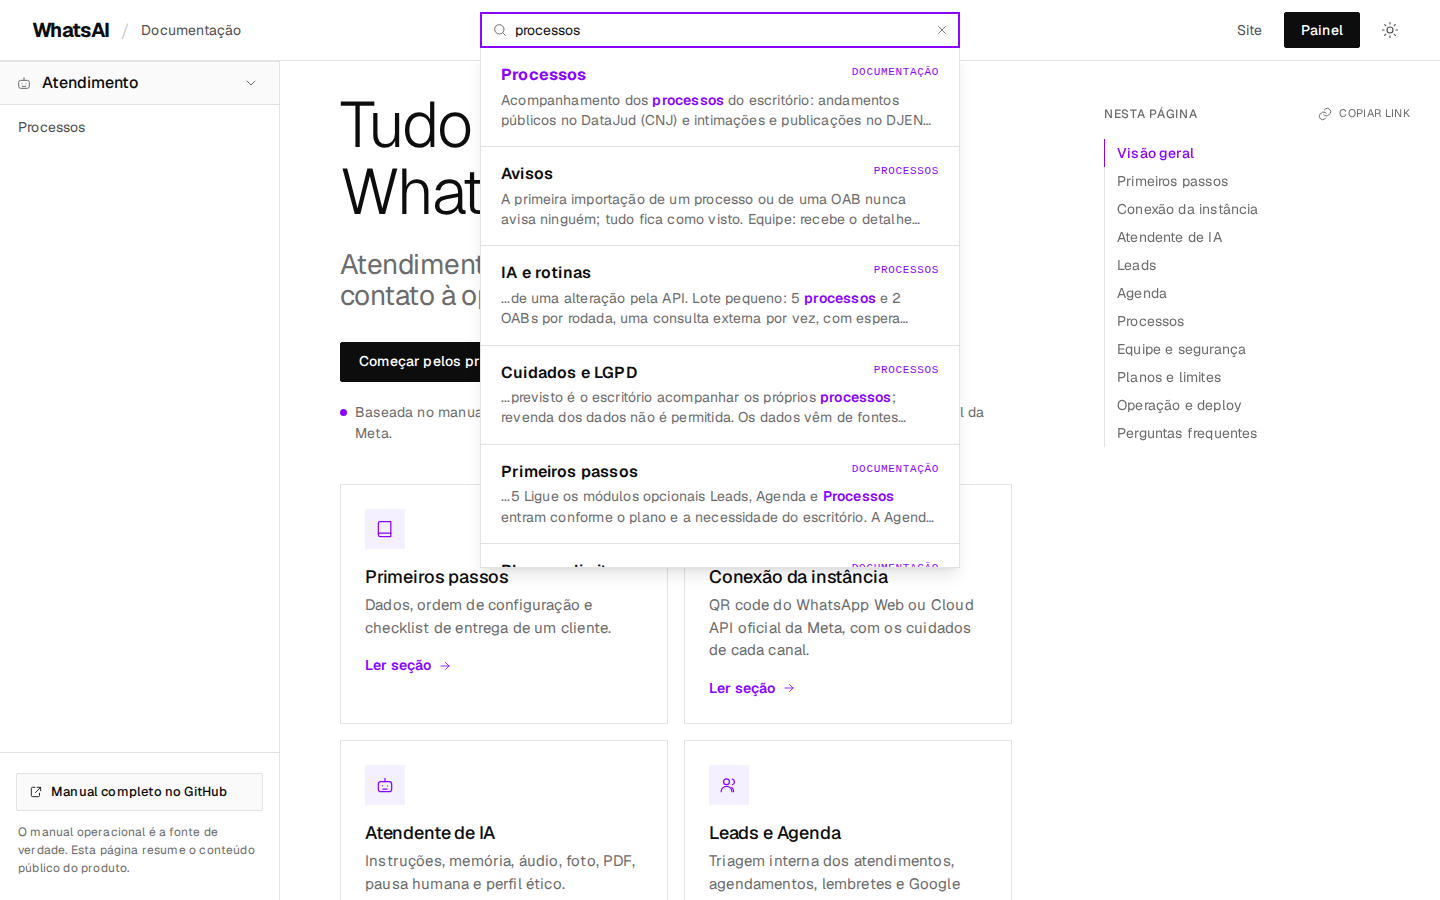
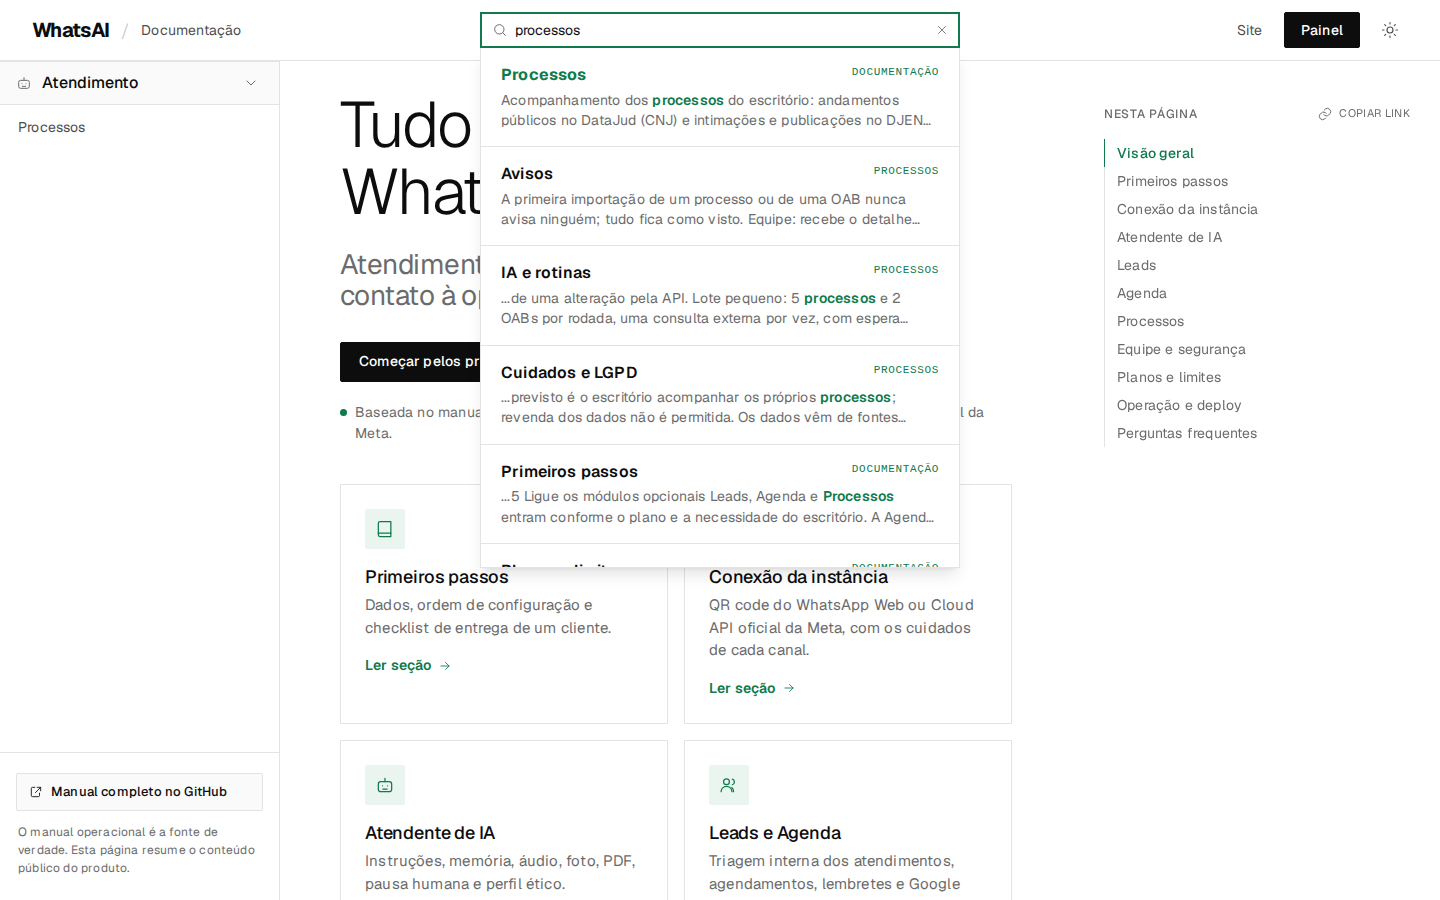
fix(docs): gaveta mobile em largura total e paleta verde [skip render]
A gaveta da documentacao no celular tinha largura maxima de 320px e deixava o conteudo aparecendo a direita; agora ocupa a largura toda, como o menu do Render Docs. A paleta roxa foi trocada pelo verde escuro da marca no accent, links, item ativo, foco, callouts e checks, nos temas claro e escuro. No desktop e no tablet a sidebar continua com 280px, igual a referencia. Capturas antes/depois e comparacao com o menu do Render em readmes/pr/documentacao.

diff --git a/manager/dist/docs/docs.css b/manager/dist/docs/docs.css
@@ -3,8 +3,8 @@
  * Estrutura, escala e estados inspirados no padrão público de documentação do Render, recriados do zero com
  * nomes de classe, HTML, CSS e JS próprios. Nenhum arquivo, fonte, logo, texto ou asset do Render é usado.
  * Tipografia: Geist (assets/geist.css) para interface e texto, pilha monoespaçada do sistema para código.
- * Paleta clara: página #fff, superfície suave #fafafa, bordas #e3e3e3, tinta #0d0d0d, accent #8a05ff.
- * Paleta escura: página #0d0d0d, superfície #141414, bordas #272727, tinta #fff, accent #d1b8ff.
+ * Paleta clara: página #fff, superfície suave #fafafa, bordas #e3e3e3, tinta #0d0d0d, accent #0e7a4d.
+ * Paleta escura: página #0d0d0d, superfície #141414, bordas #272727, tinta #fff, accent #5fcf8a.
  * Tema padrão Sistema; html[data-theme-mode] é aplicado por docs.js antes da primeira pintura.
  */
 
@@ -19,13 +19,13 @@
   --d-text-2: #4d4d4d;
   --d-text-3: #6b6b6b;
   --d-text-4: #8f8f8f;
-  --d-accent: #8a05ff;
-  --d-accent-strong: #48008c;
-  --d-accent-soft: #f4f0ff;
-  --d-accent-soft-2: #e7dbff;
-  --d-accent-border: #c29eff;
-  --d-focus: #8a05ff;
-  --d-selection: #e7dbff;
+  --d-accent: #0e7a4d;
+  --d-accent-strong: #0b5c3a;
+  --d-accent-soft: #e9f5ee;
+  --d-accent-soft-2: #d7ecdf;
+  --d-accent-border: #9fceb5;
+  --d-focus: #0e7a4d;
+  --d-selection: #d7ecdf;
   --d-overlay: rgba(0, 0, 0, 0.42);
   --d-shadow: 0 10px 15px -3px rgba(0, 0, 0, 0.1), 0 4px 6px -4px rgba(0, 0, 0, 0.1);
   --d-btn-bg: #0d0d0d;
@@ -38,15 +38,15 @@
   --d-inline-bg: #fafafa;
   --d-inline-text: #e23642;
   --d-table-line: #e2e2e2;
-  --d-note-bg: #f4f0ff;
-  --d-note-border: #9b52fb;
-  --d-note-text: #1c0037;
+  --d-note-bg: #e9f5ee;
+  --d-note-border: #1a9e5c;
+  --d-note-text: #0b3d26;
   --d-pink-bg: #fce2fe;
   --d-pink-border: #f347ff;
   --d-pink-text: #2c001d;
-  /* o ponto de status e os checks usam o accent do Render Docs, nao o verde escuro */
-  --d-ok: #8a05ff;
-  --d-ok-bg: #f3e8ff;
+  /* verde escuro da marca: ponto de status e checks */
+  --d-ok: #0e7a4d;
+  --d-ok-bg: #e9f5ee;
   --d-topbar: 60px;
   --d-sidebar: 280px;
   --d-toc: 352px;
@@ -68,13 +68,13 @@
     --d-text-2: #e3e3e3;
     --d-text-3: #b3b3b3;
     --d-text-4: #8f8f8f;
-    --d-accent: #d1b8ff;
-    --d-accent-strong: #e7dbff;
-    --d-accent-soft: #2a0052;
-    --d-accent-soft-2: #1c0037;
-    --d-accent-border: #48008c;
-    --d-focus: #c29eff;
-    --d-selection: #48008c;
+    --d-accent: #5fcf8a;
+    --d-accent-strong: #86efac;
+    --d-accent-soft: #12241a;
+    --d-accent-soft-2: #0d1f15;
+    --d-accent-border: #1f5c3a;
+    --d-focus: #86efac;
+    --d-selection: #1f5c3a;
     --d-overlay: rgba(0, 0, 0, 0.6);
     --d-shadow: 0 10px 15px -3px rgba(0, 0, 0, 0.5), 0 4px 6px -4px rgba(0, 0, 0, 0.4);
     --d-btn-bg: #ffffff;
@@ -87,14 +87,14 @@
     --d-inline-bg: #272727;
     --d-inline-text: #f0989e;
     --d-table-line: #4d4d4d;
-    --d-note-bg: #1c0037;
-    --d-note-border: #48008c;
-    --d-note-text: #e7dbff;
+    --d-note-bg: #12241a;
+    --d-note-border: #1f5c3a;
+    --d-note-text: #c9f7d9;
     --d-pink-bg: #2c001d;
     --d-pink-border: #5c0056;
     --d-pink-text: #fac7ff;
-    --d-ok: #d1b8ff;
-    --d-ok-bg: #1c0037;
+    --d-ok: #5fcf8a;
+    --d-ok-bg: #12241a;
   }
 }
 
@@ -109,13 +109,13 @@
   --d-text-2: #e3e3e3;
   --d-text-3: #b3b3b3;
   --d-text-4: #8f8f8f;
-  --d-accent: #d1b8ff;
-  --d-accent-strong: #e7dbff;
-  --d-accent-soft: #2a0052;
-  --d-accent-soft-2: #1c0037;
-  --d-accent-border: #48008c;
-  --d-focus: #c29eff;
-  --d-selection: #48008c;
+  --d-accent: #5fcf8a;
+  --d-accent-strong: #86efac;
+  --d-accent-soft: #12241a;
+  --d-accent-soft-2: #0d1f15;
+  --d-accent-border: #1f5c3a;
+  --d-focus: #86efac;
+  --d-selection: #1f5c3a;
   --d-overlay: rgba(0, 0, 0, 0.6);
   --d-shadow: 0 10px 15px -3px rgba(0, 0, 0, 0.5), 0 4px 6px -4px rgba(0, 0, 0, 0.4);
   --d-btn-bg: #ffffff;
@@ -128,14 +128,14 @@
   --d-inline-bg: #272727;
   --d-inline-text: #f0989e;
   --d-table-line: #4d4d4d;
-  --d-note-bg: #1c0037;
-  --d-note-border: #48008c;
-  --d-note-text: #e7dbff;
+  --d-note-bg: #12241a;
+  --d-note-border: #1f5c3a;
+  --d-note-text: #c9f7d9;
   --d-pink-bg: #2c001d;
   --d-pink-border: #5c0056;
   --d-pink-text: #fac7ff;
-  --d-ok: #d1b8ff;
-  --d-ok-bg: #1c0037;
+  --d-ok: #5fcf8a;
+  --d-ok-bg: #12241a;
 }
 
 *,
@@ -1703,12 +1703,12 @@ td strong {
     bottom: 0;
     left: 0;
     z-index: 45;
-    width: min(86vw, 320px);
+    width: 100%;
     height: auto;
     max-height: none;
     padding: 0;
     background: var(--d-bg);
-    border-right: 1px solid var(--d-border-strong);
+    border-right: 0;
     transform: translateX(-102%);
     visibility: hidden;
     transition: transform 200ms var(--d-ease-ui), visibility 0s linear 200ms;

diff --git a/readmes/pr/documentacao/DESIGN.md b/readmes/pr/documentacao/DESIGN.md
@@ -28,10 +28,10 @@ os ícones e o código são do WhatsAI.
 | Texto | `#0d0d0d` / `#ffffff` | igual | Texto principal. |
 | Texto secundário | `#4d4d4d` / `#e3e3e3` | igual | Navegação e parágrafos de apoio. |
 | Texto terciário | `#6b6b6b` / `#b3b3b3` | igual | Legendas, placeholder e metadados. |
-| Accent | `#8a05ff` / `#d1b8ff` | igual | Item ativo, links, foco e botão primário no hover. |
-| Accent suave | `#f4f0ff` / `#2a0052` | igual | Fundo do item ativo e ícones de card. |
-| Foco | `#8a05ff` / `#c29eff` | igual | Anel de foco visível por teclado. |
-| Nota | `#f4f0ff`, borda `#9b52fb`, texto `#1c0037` / `#1c0037`, borda `#48008c`, texto `#e7dbff` | igual | Callout informativo. |
+| Accent | `#8a05ff` / `#d1b8ff` | `#0e7a4d` / `#5fcf8a` | Adaptado para o verde escuro da marca; o Render usa roxo. Item ativo, links, foco e hover do botão primário. |
+| Accent suave | `#f4f0ff` / `#2a0052` | `#e9f5ee` / `#12241a` | Fundo do item ativo e ícones de card, no verde da marca. |
+| Foco | `#8a05ff` / `#c29eff` | `#0e7a4d` / `#86efac` | Anel de foco visível por teclado. |
+| Nota | `#f4f0ff`, borda `#9b52fb`, texto `#1c0037` / `#1c0037`, borda `#48008c`, texto `#e7dbff` | `#e9f5ee`, borda `#1a9e5c`, texto `#0b3d26` / `#12241a`, borda `#1f5c3a`, texto `#c9f7d9` | Callout informativo no verde da marca. |
 | Atenção e limite | `#fce2fe`, borda `#f347ff`, texto `#2c001d` / `#2c001d`, borda `#5c0056`, texto `#fac7ff` | igual | Callout de risco. |
 | Código inline | fundo `#fafafa`, texto `#e23642` / fundo `#272727`, texto `#f0989e` | igual | Trecho curto no meio do texto. |
 | Bloco de código | fundo `#fafafa`, cabeçalho `#ffffff`, borda `#e3e3e3` / `#141414`, `#0d0d0d`, `#272727` | igual | Barra com linguagem e botão de copiar. |
@@ -58,6 +58,7 @@ sobrescrita apenas dentro da documentação.
 | Topo | 60 px + 1 px de borda, padding lateral de 32 px | igual |
 | Busca do topo | 480 x 36 px, raio 0, borda de 1 px | igual |
 | Navegação lateral | 280 px, fixa, grupo com 44 px de altura | igual |
+| Navegação no celular | gaveta de largura total, abaixo do topo, com cortina | gaveta de largura total, abaixo do topo, com cortina; o nosso topo mantém a busca visível acima da gaveta |
 | Artigo em 1440 px | caixa de 792 px, padding de 60 px, texto de 672 px | igual |
 | Artigo entre 1024 e 1279 px | caixa de 728 px, padding de 60 px, texto de 608 px | igual |
 | Artigo abaixo de 1024 px | coluna de 672 px centralizada, padding de 32 px | igual |
